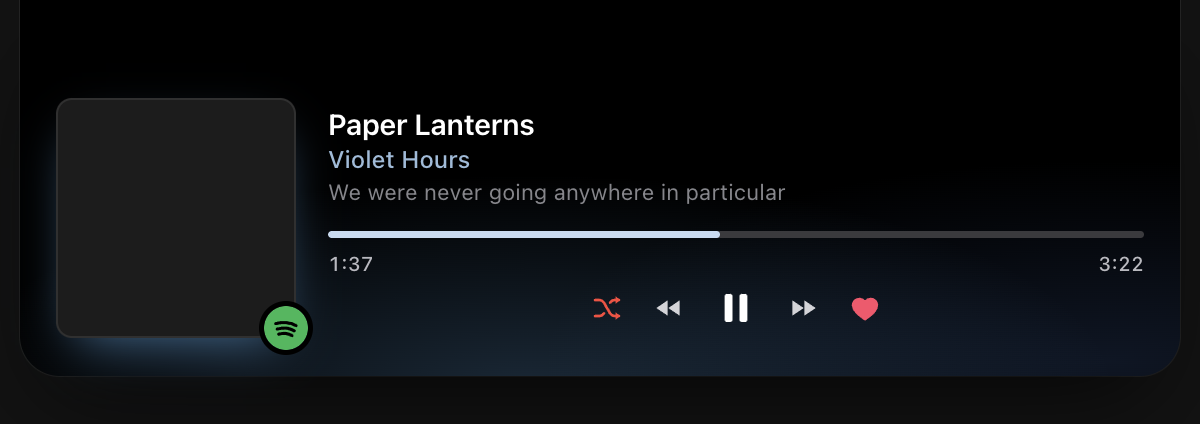
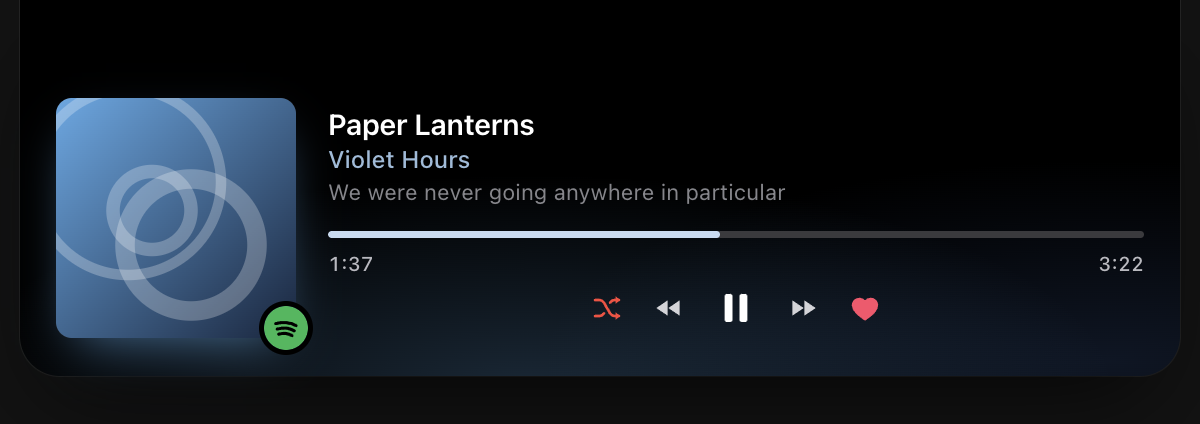
Update the README and site with captured media
Both were still showing a screenshot taken before 1.3.0 existed, and the
README had no mention of the notch HUD at all — including the part users are
most likely to report as a bug, the dock icon disappearing.

README: new hero, a Notch HUD section explaining why accessory mode costs the
dock icon, the performance tiers, the newer Spotify features, Space and arrow
keys in the cheatsheet, and a troubleshooting entry for the missing dock icon.

Site: new hero, a visualiser section with an autoplaying WebM and three styles
side by side, and both notch states in context. The clip sits in that section
rather than the hero so the page still paints immediately.

All media comes from `npm run capture`, so re-shooting after a UI change is
one command and the content stays fictional rather than exposing a real
account.

Changed region(s): [[0.0308, 0.2146, 0.2467, 0.7972]]

diff --git a/docs/index.html b/docs/index.html
@@ -9,7 +9,7 @@
 <meta property="og:title" content="Electron — audio visualizer, system-wide EQ & Spotify control for macOS">
 <meta property="og:description" content="31-band system-wide EQ, 13 real-time visualizers, Spotify control surface and a notch HUD. Free, local, no telemetry.">
 <meta property="og:type" content="website">
-<meta property="og:image" content="screenshot.jpg">
+<meta property="og:image" content="media/hero.png">
 </head>
 <body>
 
@@ -20,6 +20,7 @@
       <a href="#features">Features</a>
       <a href="#install">Install</a>
       <a href="#setup">Setup</a>
+      <a href="#visualizers">Visuals</a>
       <a href="#notch">Notch HUD</a>
       <a href="#updates">Updates</a>
       <a href="#help">Help</a>
@@ -43,7 +44,7 @@
       <a class="btn btn-ghost" href="https://github.com/omkarxpatel/Electron">View on GitHub</a>
     </div>
     <p class="hero-note">Grab the <code>arm64</code> build for Apple Silicon, <code>x64</code> for Intel. Read <a href="#install">the install steps</a> first — the app is unsigned, and macOS needs one extra command.</p>
-    <img class="shot" src="screenshot.jpg" alt="Electron running: a 31-band EQ with a live response curve, the enhancer meter bridge, a Spotify playlist with synced lyrics, over the particle visualizer.">
+    <img class="shot" src="media/hero.png" alt="Electron running: a 31-band EQ with its live response curve and output meters, a playlist with synced lyrics alongside, and the bar visualizer across the banner.">
   </header>
 
   <!-- ── Features ──────────────────────────────────────────────────── -->
@@ -119,6 +120,34 @@
       </div>
 
     </div>
+  </section>
+
+  <!-- ── Visualizers ───────────────────────────────────────────────── -->
+  <section id="visualizers">
+    <h2>Thirteen ways to watch it</h2>
+    <p class="lede">Every style reacts to whatever your Mac is playing. Visuals-only mode hides the rest of the interface and gives the whole window over to it.</p>
+
+    <video class="media clip" autoplay loop muted playsinline
+           poster="media/visuals-only.png" aria-label="The particle visualizer reacting to music in visuals-only mode.">
+      <source src="media/visuals-only-clip.webm" type="video/webm">
+    </video>
+    <p style="color:var(--dim);font-size:13.5px;margin-bottom:30px">Particles, aurora palette, visuals-only mode.</p>
+
+    <div class="gallery">
+      <figure>
+        <img class="media" src="media/visualizer-bars.png" alt="The bar visualizer in the ember palette.">
+        <figcaption><b>Bars</b> · ember</figcaption>
+      </figure>
+      <figure>
+        <img class="media" src="media/visualizer-radial.png" alt="The radial visualizer in the cyberpunk palette.">
+        <figcaption><b>Radial</b> · cyberpunk</figcaption>
+      </figure>
+      <figure>
+        <img class="media" src="media/visualizer-silk.png" alt="The silk visualizer in the ocean palette.">
+        <figcaption><b>Silk</b> · ocean</figcaption>
+      </figure>
+    </div>
+    <p style="color:var(--dim);font-size:13.5px;margin:0">Also: Spectrum, Ribbon, Dots, Mirror, Line, Filled, Scope, Bloom and Ripples — across 16 palettes, or one you pick yourself.</p>
   </section>
 
   <!-- ── Install ───────────────────────────────────────────────────── -->
@@ -233,8 +262,16 @@ mv ~/Desktop/Electron.app /Applications/</code></pre>
     <h2>The Notch HUD</h2>
     <p class="lede">Music controls that live in the notch, so you can change track without leaving what you're doing.</p>
 
+    <div class="notch-shot">
+      <img src="media/notch-expanded.png" alt="The notch panel expanded, showing album art, track and artist, the current lyric line, a scrubber and transport controls.">
+    </div>
+
     <p>Move your cursor to the notch and a panel drops down with the album art, track and artist, the current lyric line, a scrubber you can click to seek, and transport controls. Click anywhere on it that isn't a button to bring the main window forward. Move away and it folds back up into the notch.</p>
-    <p>Idle, it shows only the album thumbnail and a few level bars, positioned either side of the camera so the notch itself hides the rest.</p>
+    <p>Idle, it shows only the album thumbnail and a few level bars, positioned either side of the camera so the notch itself hides the rest:</p>
+
+    <div class="notch-shot">
+      <img src="media/notch-idle.png" alt="The notch at rest: a small album thumbnail on the left of the camera and animated level bars on the right.">
+    </div>
 
     <div class="note warn">
       <span class="lbl">It hides your Dock icon — and that's not a bug</span>

diff --git a/docs/site.css b/docs/site.css
@@ -227,6 +227,51 @@ code:not(pre code) {
   color: #e4e4ec;
 }
 
+/* ── Media ───────────────────────────────────────────────────────────── */
+
+.media {
+  width: 100%;
+  border-radius: var(--radius);
+  border: 1px solid var(--line);
+  display: block;
+  background: #000;
+}
+
+.clip {
+  margin: 0 0 12px;
+  box-shadow: 0 24px 60px -28px rgb(0 0 0 / 90%);
+}
+
+.gallery {
+  display: grid;
+  grid-template-columns: repeat(auto-fit, minmax(260px, 1fr));
+  gap: 13px;
+  margin-bottom: 8px;
+}
+
+figure { margin: 0; }
+
+figcaption {
+  margin-top: 7px;
+  font-size: 13px;
+  color: var(--dim);
+}
+
+figcaption b { color: var(--muted); font-weight: 600; }
+
+/* The notch panel is captured on transparency, so it needs something behind
+   it or the rounded underside is invisible against the page. */
+.notch-shot {
+  background: linear-gradient(180deg, #000 0%, #101014 100%);
+  border-radius: var(--radius);
+  border: 1px solid var(--line);
+  padding: 0 0 18px;
+  overflow: hidden;
+  margin-bottom: 12px;
+}
+
+.notch-shot img { width: 100%; display: block; }
+
 /* ── Callouts ────────────────────────────────────────────────────────── */
 
 .note {

diff --git a/README.md b/README.md
@@ -12,7 +12,9 @@ Runs entirely on your Mac — no servers, no telemetry. You bring your own Spoti
 
 > macOS 11 Big Sur or later. Tested on Apple Silicon and Intel.
 
-<img width="1512" alt="Electron running: 31-band EQ with live curve, the enhancer meter bridge, a Spotify playlist and synced lyrics, over the particle visualizer" src="docs/screenshot.jpg" />
+<img alt="Electron running: the 31-band EQ with its live response curve and output meters, a playlist with synced lyrics alongside, and the bar visualizer across the banner" src="docs/media/hero.png" />
+
+> There is a **[product site](https://omkarxpatel.github.io/Electron/)** too, if you would rather read this with pictures.
 
 ---
 
@@ -24,6 +26,7 @@ Runs entirely on your Mac — no servers, no telemetry. You bring your own Spoti
   - [BlackHole 2ch — heavily recommended](#2-blackhole-2ch--heavily-recommended)
   - [Spotify Client ID](#3-spotify-client-id)
 - [Features](#features)
+- [The Notch HUD](#the-notch-hud)
 - [Mouse / keyboard cheatsheet](#mouse--keyboard-cheatsheet)
 - [Troubleshooting](#troubleshooting)
   - [Install / launch issues](#install--launch-issues) — "damaged" error, right-click → Open, hidden window
@@ -169,6 +172,18 @@ You only do this once per Mac.
 - Move any selected band's slider and they all move by the same dB delta.
 - Click outside / `Esc` clears.
 
+**Notch HUD**
+- A music panel that hangs from the MacBook notch and stays on screen while you work in another app.
+- Hover for artwork, title, the current lyric line, a click-to-seek scrubber and transport; click the panel to bring the main window forward.
+- At rest it shows only the album thumbnail and level bars, either side of the camera.
+- Colours follow the album art when auto-tint is on.
+- **Turning it on hides the Dock icon** — see [The Notch HUD](#the-notch-hud) for why.
+
+**Performance**
+- The visualizer runs off the main thread on an `OffscreenCanvas`, so the interface stays responsive while it draws.
+- The app measures the machine on first run and picks a quality tier to match — render scale and an optional frame cap. Weaker Macs get fewer pixels rather than fewer frames, and nothing about the look changes.
+- Rendering stops entirely while the window is hidden.
+
 **Spotify**
 - PKCE OAuth (no client secret needed).
 - Playlist browser + paginated track list + saved-albums view.
@@ -176,6 +191,8 @@ You only do this once per Mac.
 - The last playlist you opened is reopened on the next launch.
 - Persistent player bar with transport, scrubber, volume.
 - Live lyrics (synced when available, plain otherwise).
+- Right-click any track for add-to-playlist, add-to-queue and copy-link.
+- **Listening stats** — top artists and tracks, genres, release eras, and a mainstream score, with rank movement since last time.
 - Reconnect / sign out from Settings.
 
 **Updates**
@@ -186,10 +203,37 @@ You only do this once per Mac.
 
 ---
 
+## The Notch HUD
+
+<img alt="The notch panel expanded: album art, track and artist, the current lyric line, a scrubber and transport controls" src="docs/media/notch-expanded.png" />
+
+Move the cursor to the notch and this drops down. Click anywhere on it that isn't a
+control to bring the main window forward; move away and it folds back up. At rest
+only the album thumbnail and a few level bars show, tucked either side of the camera.
+
+No notch on your Mac? It still works — the panel sits at the top centre of the
+display and sizes itself to your menu bar instead.
+
+### It hides your Dock icon, and that is not a bug
+
+With the HUD on, the app runs from the menu bar only: **no Dock icon, and no
+Cmd+Tab entry**.
+
+macOS will only let a window float above *another* app's fullscreen Space if the
+process is registered as a background accessory, and giving up the Dock icon is how
+an app declares that. Keep the Dock icon and the HUD stops existing the moment you
+switch to a fullscreen window — which is most of when you would want it.
+
+Use the **menu-bar icon** to reopen the main window. Turning the HUD off under
+**Settings → Notch HUD** restores the Dock icon and Cmd+Tab immediately.
+
 ## Mouse / keyboard cheatsheet
 
 | Action | Result |
 |---|---|
+| `Space` | Play / pause |
+| `←` / `→` | Previous / next track |
+| Right-click a track | Add to playlist, add to queue, copy link |
 | Drag the EQ response curve | Pan the visible frequency / dB window |
 | Double-click the curve | Reset pan |
 | Click a band's freq label (e.g. "1k") | Toggle into multi-select |
@@ -273,6 +317,12 @@ If audio still feels quieter than direct playback at 100%, check:
 
 **Live mode feedback (loud whining / echo)**
 The output device and input source are routed through the same path. If your input is BlackHole, your output must NOT be BlackHole. Set the **Output device** dropdown to a real device.
+
+**My Dock icon disappeared**
+The Notch HUD is on. macOS requires background-accessory status for a window to float
+over fullscreen apps, and that means no Dock icon and no Cmd+Tab entry. Reopen the
+window from the **menu-bar icon**; turn off **Settings → Notch HUD** to get the Dock
+icon back. See [The Notch HUD](#the-notch-hud).
 
 **Spotify won't connect**
 - Redirect URI in your Spotify dashboard must be exactly `http://127.0.0.1:8888/callback`. Not `localhost` — Spotify deprecated localhost in 2024.
